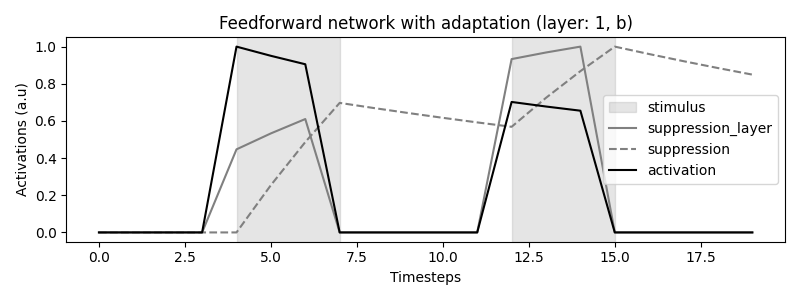
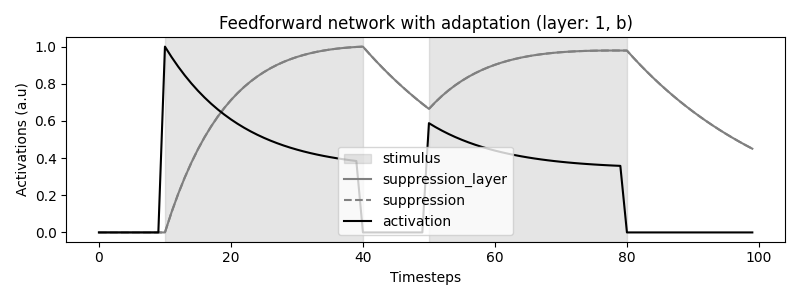
variable input adapt network

diff --git a/cnn_sat_adapt.py b/cnn_sat_adapt.py
@@ -5,6 +5,7 @@ import sys
 import numpy as np
 import tensorflow as tf
 import time
+from keras.models import Model
 
 # required scripts
 from temporal_models.spoerer_2020.models.preprocess import preprocess_image
@@ -38,9 +39,9 @@ def main():
     layer = '1'
 
     # set timeseries
-    n_timesteps = 20                                                         # number of timesteps
-    stim_duration = 3                                                          # stimulus duration
-    start = [4, 12]                                                              # starting points of stimuli
+    n_timesteps = 100                                                        # number of timesteps
+    stim_duration = 30                                                          # stimulus duration
+    start = [10, 50]                                                              # starting points of stimuli
 
     # adaptation parameters
     alpha = 0.96
@@ -69,8 +70,8 @@ def main():
         sys.exit()
 
     # input_shape (HARD-coded)
-    input_shape = [128, 128, 3]
-    input_layer = tf.keras.layers.Input((input_shape[0], input_shape[1], input_shape[2]))
+    input_shape = [n_timesteps, 128, 128, 3]
+    input_layer = tf.keras.layers.Input((input_shape[0], input_shape[1], input_shape[2], input_shape[3]))
 
     # initiate model architecture
     model = b_net_adapt(input_layer, classes, model_arch, alpha=alpha, beta=beta, n_timesteps=n_timesteps, cumulative_readout=True)
@@ -91,6 +92,10 @@ def main():
 
     # load input over time
     input_tensor = load_input_timepts(input_img, input_shape, n_timesteps, stim_duration, start)
+    # input_tensor.expand_dims(input_tensor, 0)
+    # input_tensor = tf.convert_to_tensor(input_tensor)
+    input_tensor = tf.expand_dims(input_tensor, 0)
+    # print(input_tensor.shape)
 
     # run model and extract linear readout
     readout = np.zeros((n_timesteps, classes))
@@ -101,42 +106,42 @@ def main():
 
     # get network info
     max_categories = []
-    for i in range(n_timesteps):
+    for t in range(n_timesteps):
 
         # extract readout (i.e. softmax)
         get_layer_activation_readout = tf.keras.backend.function(
             [model.input],
-            [model.get_layer('Sotfmax_Time_{}'.format(i)).output])
-        readout[i, :] = get_layer_activation_readout(input_tensor[i, :, :, :, :])[0][0]
-        readout_max[i] = max(readout[i, :])
+            [model.get_layer('Sotfmax_Time_{}'.format(t)).output])
+        readout[t, :] = get_layer_activation_readout(input_tensor)[0][0]
+        readout_max[t] = max(readout[t, :])
 
         # extract index with highest value
-        cat_idx_max = np.argmax(readout[i, :])
+        cat_idx_max = np.argmax(readout[t, :])
         cat_max = categories[cat_idx_max]
         max_categories.append(cat_max)
 
         # print classification
-        print('Timestep: ', i)
-        print('Model prediction: ', cat_max, '(softmax output: ', readout_max[i], ')')
+        print('Timestep: ', t)
+        print('Model prediction: ', cat_max, '(softmax output: ', readout_max[t], ')')
         print('\n')
 
         # extract activation for specific layer
         get_layer_activation = tf.keras.backend.function(
             [model.input],
-            [model.get_layer('ReLU_Layer_{}_Time_{}'.format(layer, i)).output])
-        activations_temp = get_layer_activation(input_tensor[i, :, :, :, :])
-        activations[i] = np.nanmean(activations_temp)
+            [model.get_layer('ReLU_Layer_{}_Time_{}'.format(layer, t)).output])
+        activations_temp = get_layer_activation(input_tensor)
+        activations[t] = np.nanmean(activations_temp)
 
         # extract suppression
-        if i > 0:
+        if t > 0:
             get_layer_suppression = tf.keras.backend.function(
                 [model.input],
-                [model.get_layer('{}_S_Time_{}'.format(layer, i)).output])
-            suppressions_temp = get_layer_suppression(input_tensor[i, :, :, :, :])
-            print(np.mean(suppressions_temp))
-            suppressions[i] = np.nanmean(suppressions_temp)
+                [model.get_layer('{}_S_Time_{}'.format(layer, t)).output])
+            suppressions_temp = get_layer_suppression(input_tensor)
+            # print(np.mean(suppressions_temp))
+            suppressions[t] = np.nanmean(suppressions_temp)
 
-            s[i] = alpha * s[i-1] + (1 - alpha) * activations[i-1]
+            s[t] = alpha * s[t-1] + (1 - alpha) * activations[t-1]
 
     # determine time it took to run script (check GPU-access)
     executionTime = (time.time() - startTime)

diff --git a/temporal_models/utils.py b/temporal_models/utils.py
@@ -40,9 +40,9 @@ def load_input_images(input_layer, input_shape, timepts, img_idx):
 
     # input over time
     if data_format == 'channels_last':
-        input_img = np.zeros((len(img_idx), input_shape[0], input_shape[1], input_shape[2]))
-    else:
         input_img = np.zeros((len(img_idx), input_shape[1], input_shape[2], input_shape[3]))
+    else:
+        input_img = np.zeros((len(img_idx), input_shape[3], input_shape[1], input_shape[2]))
 
     # import images
     raw_img = []
@@ -55,9 +55,9 @@ def load_input_images(input_layer, input_shape, timepts, img_idx):
 
         # resize height and witdh
         if data_format == 'channels_last':
-            img_resize = cv2.resize(raw_img_temp, (input_shape[0], input_shape[1]))
-        else:
             img_resize = cv2.resize(raw_img_temp, (input_shape[1], input_shape[2]))
+        else:
+            img_resize = cv2.resize(raw_img_temp, (input_shape[3], input_shape[4]))
         raw_img.append(img_resize)
 
         # scale pixel values
@@ -99,16 +99,16 @@ def load_input_timepts(input_img, input_shape, timepts, stim_duration, start):
 
     # input over time
     if data_format == 'channels_last':
-        input = np.zeros((timepts, 1, input_shape[0], input_shape[1], input_shape[2]))
+        input = np.zeros((timepts, input_shape[1], input_shape[2], input_shape[3]))
     else:
-        input = np.zeros((timepts, 1, input_shape[1], input_shape[2], input_shape[0]))
+        input = np.zeros((timepts, input_shape[3], input_shape[1], input_shape[2]))
 
     for i in range(img_n):
 
         t_start = start[i]
         t_end = start[i] + stim_duration
 
-        input[t_start:t_end, :, :, :, :] = input_img[i] * stim_duration
+        input[t_start:t_end, :, :, :] = input_img[i] * stim_duration
 
     # convert to tensor
     input_tensor = tf.convert_to_tensor(input, dtype=tf.uint8)

diff --git a/temporal_models/spoerer_2020/models/b_net_adapt.py b/temporal_models/spoerer_2020/models/b_net_adapt.py
@@ -153,8 +153,9 @@ def b_net_adapt(input_tensor, classes, model_arch, alpha=0.96, beta=0.7, n_times
                 if n == 0:
 
                     # B conv on the image does not need to be recomputed
-                    if t == 0:
-                        b_input = input_tensor
+                    if n == 0:
+                        b_input = input_tensor[:, t, :, :, :]
+                        print(input_tensor.shape)
                     else:
                         b_input =  None
 
